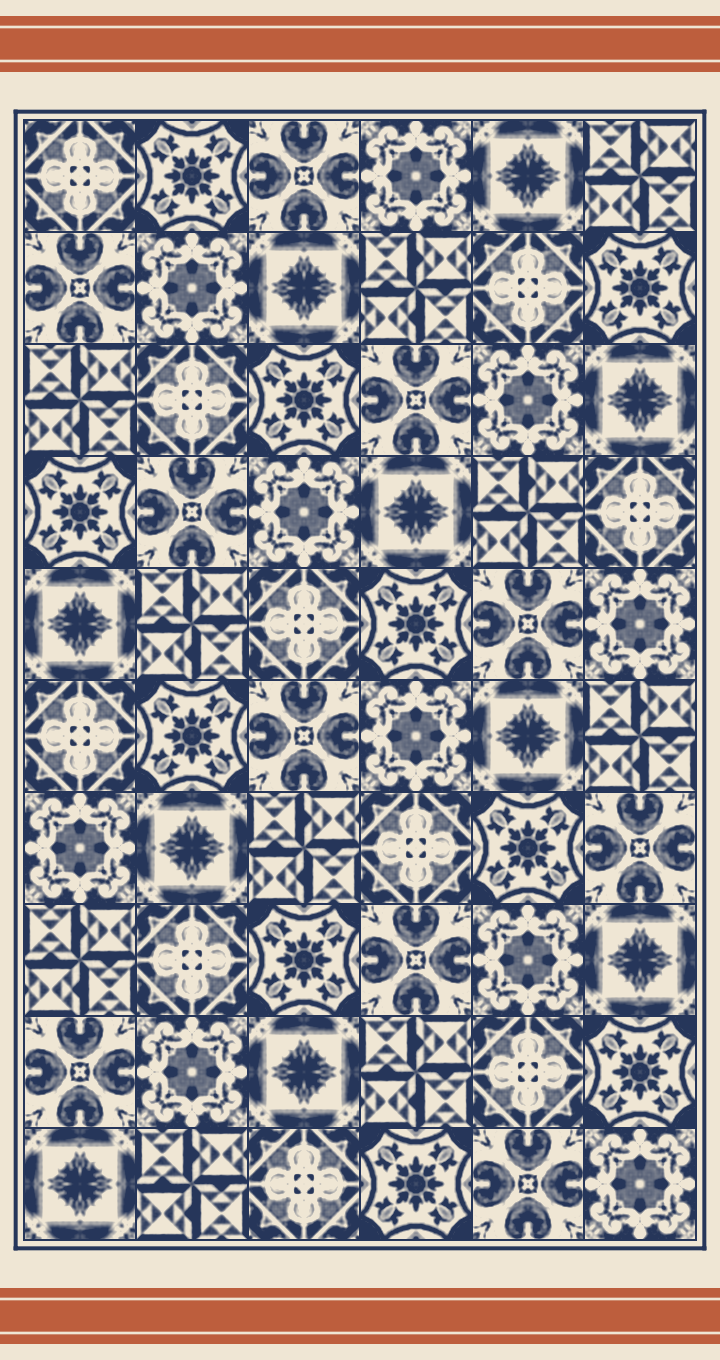
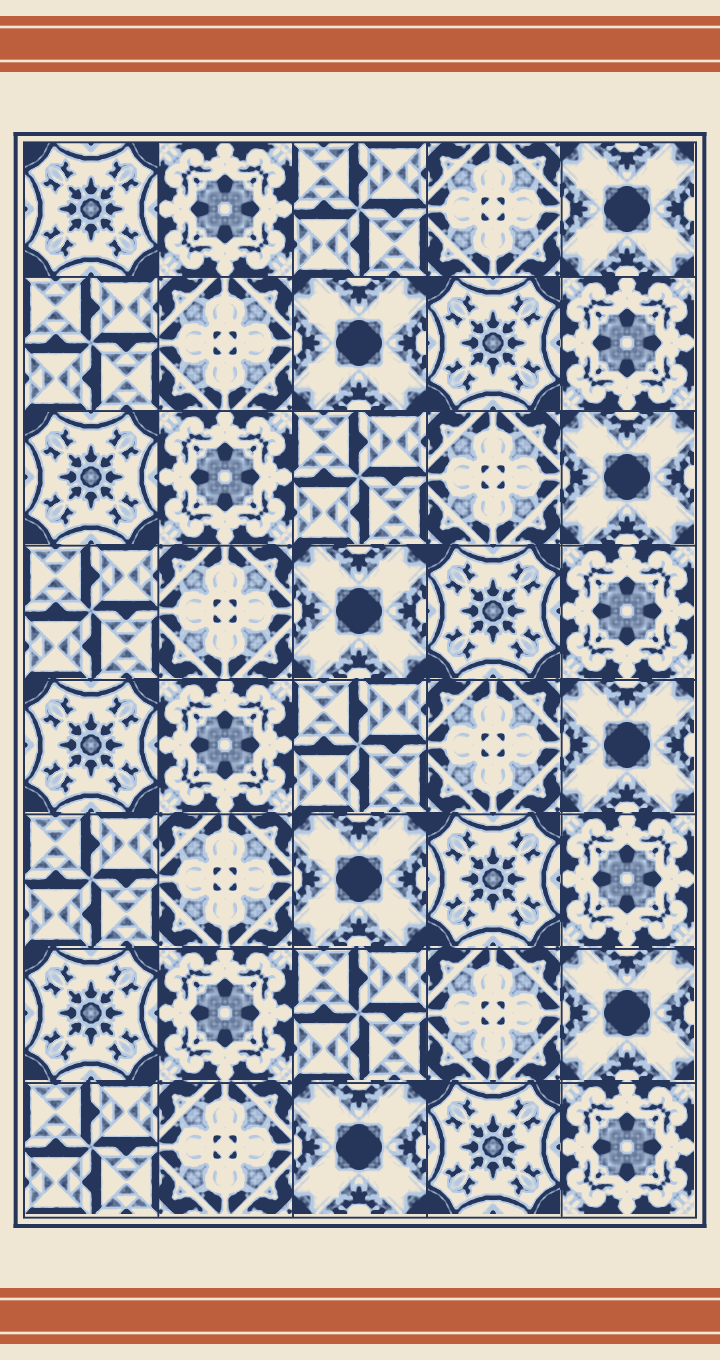
Geen merch meer: collectie heet Kleding en accessoires
Claude-Session: https://claude.ai/code/session_015XUCkmjhzv6ohesKJnYCin

diff --git a/tools/producten/echt_handdoek.py b/tools/producten/echt_handdoek.py
@@ -44,18 +44,19 @@ NAVY, CREME, TERRA = hexkl('#22324F'), hexkl('#F3ECDD'), hexkl('#C0603E')
 GAREN_NAVY = hexkl('#26365A')
 GAREN_CREME = hexkl('#EFE6D4')
 GAREN_TERRA = hexkl('#BD5E3D')
+GAREN_BLAUW = hexkl('#B3C8E3')      # baby blue, het derde garen voor de middentonen
 
 BREED, LANG = 90.0, 170.0          # cm
 TEGEL = 16.8                        # cm per tegel: 5 over de breedte, 8 over de lengte
 VELD = (3.0, 17.8, 87.0, 152.2)     # tegelveld u0, v0, u1, v1 in cm
 KADER_V = VELD[1] - 1.3             # dun navy kader rond het veld
-MOTIEVEN = [0, 1, 5, 6, 9, 2]       # tegels uit de stof die als jacquard goed lezen
+MOTIEVEN = [1, 6, 2, 0, 3]          # tegels uit de stof die als jacquard goed lezen
 SPIEGEL = {2: False}                # de molen (tegel 2) is alleen draaisymmetrisch
 
 
 # ---------- ontwerp ----------
 def motief(i, n=480):
-    """Tegel uit de echte stof als zachte twee-kleurenkaart (1 = crème, 0 = navy)."""
+    """Tegel uit de echte stof als zachte toonkaart. Geeft (X - drempel navy, X - drempel blauw) in eenheden van de spreiding."""
     t = np.asarray(Image.open(FABRIEK / f'tegel-0{i}.png').convert('RGB')).astype(np.float32) / 255
     L = MK.helderheid(t)
     L = cv2.GaussianBlur(cv2.resize(L, (n, n), interpolation=cv2.INTER_CUBIC), (0, 0), n / 130)
@@ -63,8 +64,8 @@ def motief(i, n=480):
     if SPIEGEL.get(i, True):
         acc += [np.fliplr(a) for a in acc]
     X = cv2.GaussianBlur(np.mean(acc, 0), (0, 0), n / 200)
-    th = np.percentile(X, 47)
-    return (X - th) / (X.std() + 1e-6)
+    X = (X - X.mean()) / (X.std() + 1e-6)
+    return np.dstack([X - np.percentile(X, 30), X - np.percentile(X, 58)])
 
 
 _MOT = {}
@@ -93,7 +94,7 @@ def ontwerp(ppc):
         if (i, tp) not in _MOT:
             _MOT[(i, tp)] = cv2.resize(motief(i), (tp, tp), interpolation=cv2.INTER_CUBIC)
     nk, nr = int(round((u1 - u0) / TEGEL)), int(round((v1 - v0) / TEGEL))
-    veld = np.ones((nr * tp, nk * tp), np.float32)
+    veld = np.ones((nr * tp, nk * tp, 2), np.float32)
     for r in range(nr):
         for c in range(nk):
             i = MOTIEVEN[(r * 2 + c * 1 + (r // 2)) % len(MOTIEVEN)]
@@ -104,11 +105,13 @@ def ontwerp(ppc):
         kl = cv2.resize(veld, (int(veld.shape[1] / cel), int(veld.shape[0] / cel)), interpolation=cv2.INTER_AREA)
         trap = cv2.resize(kl, (veld.shape[1], veld.shape[0]), interpolation=cv2.INTER_NEAREST)
         veld = cv2.GaussianBlur(trap, (0, 0), cel * 0.18) * 0.7 + veld * 0.3
-    # zachte rand tussen garens (scherpte past bij de schaal)
-    a = np.clip(veld * 2.2 * max(1.0, ppc / 12) + 0.5, 0, 1)
+    # drie garens: navy, baby blue en crème, met een zachte rand (scherpte past bij de schaal)
+    k = 2.2 * max(1.0, ppc / 12)
+    aN = np.clip(veld[..., 0] * k + 0.5, 0, 1)[..., None]
+    aB = np.clip(veld[..., 1] * k + 0.5, 0, 1)[..., None]
     x0, y0 = int(round(u0 * ppc)), int(round(v0 * ppc))
     sub = img[y0:y0 + veld.shape[0], x0:x0 + veld.shape[1]]
-    sub[:] = GAREN_NAVY * (1 - a[..., None]) + GAREN_CREME * a[..., None]
+    sub[:] = GAREN_NAVY * (1 - aN) + aN * (GAREN_BLAUW * (1 - aB) + GAREN_CREME * aB)
     # voegen tussen de tegels: dun navy
     voeg = np.zeros((H, W), np.float32)
     for k in range(nk + 1):
@@ -313,7 +316,7 @@ def foto2():
     vul = bril.copy(); ff = np.zeros((h + 2, w + 2), np.uint8); cv2.floodFill(vul, ff, (0, 0), 1); bril = bril | (1 - vul)
     bril = cv2.dilate(bril, np.ones((3, 3), np.uint8)).astype(np.float32)
     masker = cv2.GaussianBlur(binnen, (0, 0), 1.0) * (1 - cv2.GaussianBlur(bril, (0, 0), 1.0))
-    schoon = strepen_weg(f)
+    schoon = strepen_weg(f, 61)
     ontw, lm = ontwerp_met_label(s * 1.5)
     uit = breng_aan(f, masker, U, V, s * 1.5, ontw, schoon=schoon, verplaatsing=0.5, detail=0.6, waas=0.12)
     uit = uit[0:1950, 0:1560]

diff --git a/tools/producten/kleding.py b/tools/producten/kleding.py
@@ -1,4 +1,4 @@
-# Kleding en merch. Wordt uitgevoerd binnen producten.py (gebruikt de helpers en P daaruit).
+# Kleding en accessoires. Wordt uitgevoerd binnen producten.py (gebruikt de helpers en P daaruit).
 MATEN = ['S', 'M', 'L', 'XL']
 IL = json.load(open(ROOT / 'tools' / 'brand2' / 'illustraties.json'))
 
@@ -160,13 +160,13 @@ KLEDING = [
          voor=lambda: poncho(), achter=lambda: poncho(True), voor_bg=ZAND, achter_bg=BABY, alt='Zeeblauwe surfponcho met tegelrand', regel='Omkleden zonder gedoe'),
 ]
 for k in KLEDING:
-    P.append(dict(handle=k['handle'], titel=k['titel'], type=k['type'], collectie='Kleding en merch', prijs=k['prijs'], gram=k['gram'], tags=['kleding', 'merch'], maten=k.get('maten'),
+    P.append(dict(handle=k['handle'], titel=k['titel'], type=k['type'], collectie='Kleding en accessoires', prijs=k['prijs'], gram=k['gram'], tags=['kleding'], maten=k.get('maten'),
                   tekst=k['tekst'] + VERZENDING, seo_titel=f"{k['titel']} | Tide-Tode", seo_tekst=k['seo_tekst'],
                   beelden=[('pack', lambda k=k: (k['voor'](), '0 0 600 600', 1450, 0), k['voor_bg'], 'Voorkant', k['alt'] + ', voorkant'),
                            ('pack', lambda k=k: (k['achter'](), '0 0 600 600', 1450, 0), k['achter_bg'], 'Achterkant', k['alt'] + ', achterkant met print'),
                            ('sfeer', lambda k=k: (k['achter'](), '0 0 600 600', 1450, 0), k['regel'], k['alt'] + ' als sticker op een foto van de zee')]))
 
-MERCH = [
+ACCESSOIRES = [
     dict(handle='pet-navy', titel='Pet navy', type='Pet', prijs='30.00', gram=90,
          tekst='<p>Navy pet van katoen met ons board-icoon geborduurd op de voorkant. Verstelbaar aan de achterkant, één maat.</p>',
          seo_tekst='Navy katoenen pet met geborduurd Tide-Tode icoon. Verstelbaar, één maat.',
@@ -184,8 +184,8 @@ MERCH = [
          seo_tekst='Canvas tas met busjesprint voor handdoek, wetsuit en lunch. 38 bij 42 cm.',
          svg=lambda: (tote(), '0 0 600 600', 1300, 0), achter=ROSE, label='Canvas', alt='Canvas tas met het busje en OP WEG NAAR ZEE', regel='Alles mee naar het strand'),
 ]
-for k in MERCH:
-    P.append(dict(handle=k['handle'], titel=k['titel'], type=k['type'], collectie='Kleding en merch', prijs=k['prijs'], gram=k['gram'], tags=['merch'],
+for k in ACCESSOIRES:
+    P.append(dict(handle=k['handle'], titel=k['titel'], type=k['type'], collectie='Kleding en accessoires', prijs=k['prijs'], gram=k['gram'], tags=['accessoires'],
                   tekst=k['tekst'] + VERZENDING, seo_titel=f"{k['titel']} | Tide-Tode", seo_tekst=k['seo_tekst'],
                   beelden=[('pack', k['svg'], k['achter'], k['label'], k['alt']), ('sfeer', k['svg'], k['regel'], k['alt'] + ' als sticker op een foto van de zee')]))
 

diff --git a/tools/brand/maak_secties.py b/tools/brand/maak_secties.py
@@ -1229,7 +1229,7 @@ schrijf('tt-collectie', """
         {"type": "link", "settings": {"label": "Alles", "handle": "all"}},
         {"type": "link", "settings": {"label": "Draagtassen", "handle": "draagtassen"}},
         {"type": "link", "settings": {"label": "Surfgear", "handle": "surfgear"}},
-        {"type": "link", "settings": {"label": "Kleding en merch", "handle": "kleding-en-merch"}}]}]})
+        {"type": "link", "settings": {"label": "Kleding en accessoires", "handle": "kleding-en-accessoires"}}]}]})
 
 # ---------- ALLE COLLECTIES ----------
 schrijf('tt-collecties', """
@@ -1266,7 +1266,7 @@ schrijf('tt-collecties', """
     "presets": [{"name": "TT: alle collecties", "blocks": [
         {"type": "collectie", "settings": {"label": "Draagtassen", "handle": "draagtassen", "kleur": "baby", "ill": "draagtas"}},
         {"type": "collectie", "settings": {"label": "Surfgear", "handle": "surfgear", "kleur": "rose", "ill": "golf"}},
-        {"type": "collectie", "settings": {"label": "Kleding en merch", "handle": "kleding-en-merch", "kleur": "zand", "ill": "busje"}}]}]})
+        {"type": "collectie", "settings": {"label": "Kleding en accessoires", "handle": "kleding-en-accessoires", "kleur": "zand", "ill": "busje"}}]}]})
 
 # ---------- DUURZAAMHEID: wat we nu al doen, in een paar punten ----------
 # Alleen keuzes die echt zo zijn. Geen keurmerken, percentages of CO2-cijfers.
@@ -1396,8 +1396,8 @@ schrijf('tt-meer', """
         {"type": "text", "id": "label", "label": "Klein label boven de kop", "default": "Kleding en gear"},
         kop("Meer dan|een *tas*"),
         {"type": "textarea", "id": "text", "label": "Tekst", "default": "Zware shirts met een verhaal op de rug, een hoodie voor na het surfen en kleine dingen die je elke sessie gebruikt."},
-        {"type": "text", "id": "btn1_label", "label": "Knop", "default": "Kleding en merch"},
-        {"type": "text", "id": "btn1_link", "label": "Knop (adres)", "default": "/collections/kleding-en-merch"},
+        {"type": "text", "id": "btn1_label", "label": "Knop", "default": "Kleding en accessoires"},
+        {"type": "text", "id": "btn1_link", "label": "Knop (adres)", "default": "/collections/kleding-en-accessoires"},
         {"type": "text", "id": "btn2_label", "label": "Tweede link", "default": "Surfgear"},
         {"type": "text", "id": "btn2_link", "label": "Tweede link (adres)", "default": "/collections/surfgear"},
     ],

diff --git a/tools/tas/sfeer_meet.py b/tools/tas/sfeer_meet.py
@@ -231,11 +231,39 @@ def meet(naam, hint, check=None):
     res = dict(c=c.tolist(), a=a.tolist(), t_neus=None if t_neus is None else float(t_neus),
                t_staart=None if t_staart is None else float(t_staart), t_balans=float(tb),
                breedte=breedte, midden=mid.tolist(), tt=tt, lo=lo_g, hi=hi_g)
+    # zichtbaar board = gladde omtrek min occluders (pixels binnen de omtrek die GrabCut geen board vond,
+    # alleen als ze in een hint-zone 'occ' liggen of groot genoeg zijn)
+    omtrek = omtrek_masker(img.shape[:2], res)
+    occ = (omtrek > 0) & (fg == 0)
+    occ = cv2.morphologyEx(occ.astype(np.uint8), cv2.MORPH_OPEN, np.ones((5, 5), np.uint8))
+    if hint.get('occ_zones'):
+        zone = np.zeros_like(occ)
+        for poly in hint['occ_zones']:
+            cv2.fillPoly(zone, [np.array(poly, np.int32)], 1)
+        occ = occ * zone
+    else:
+        occ[:] = 0
+    zicht = ((omtrek > 0) & (occ == 0)).astype(np.uint8)
     MASK.mkdir(exist_ok=True)
-    Image.fromarray(fg * 255).save(MASK / (pathlib.Path(naam).stem + '.png'))
+    Image.fromarray(zicht * 255).save(MASK / (pathlib.Path(naam).stem + '.png'))
+    np.savez_compressed(MASK / (pathlib.Path(naam).stem + '.npz'), c=c, a=a, tt=tt, lo=lo_g, hi=hi_g, t_balans=tb,
+                        t_neus=np.nan if t_neus is None else t_neus, t_staart=np.nan if t_staart is None else t_staart)
+    fg = zicht
     if check:
         controle(img, fg, res, check / f'meet-{pathlib.Path(naam).stem}.jpg', hint)
     return res, fg
+
+
+def omtrek_masker(shape, r, sub=4):
+    """Gevulde gladde omtrek (anti-aliased niet nodig: 1 px nauwkeurig) uit het profiel."""
+    c, a = np.array(r['c']), np.array(r['a']); n = np.array([-a[1], a[0]])
+    tt, lo, hi = r['tt'], r['lo'], r['hi']
+    links = c[None] + a[None] * tt[:, None] + n[None] * lo[:, None]
+    rechts = c[None] + a[None] * tt[:, None] + n[None] * hi[:, None]
+    pts = np.concatenate([links, rechts[::-1]])
+    m = np.zeros(shape, np.uint8)
+    cv2.fillPoly(m, [np.round(pts * sub).astype(np.int32)], 1, lineType=cv2.LINE_8, shift=2)
+    return m
 
 
 def controle(img, fg, r, pad, hint):

diff --git a/tools/brand2/brandbook.py b/tools/brand2/brandbook.py
@@ -512,7 +512,7 @@ svg.vol { position: absolute; inset: 0; width: 100%; height: 100%; display: bloc
     <div style="background-image:url({productfoto(PB / 'fabriek' / 'lifestyle-knuffel.jpg', 800)})"></div>
   </div>
 </div></section>''')
-    # 3g kleding en merch: echte productfoto's
+    # 3g kleding en accessoires: echte productfoto's
     def raster(items):
         return ''.join(f'<figure><div style="background-image:url({productfoto(PB / "beelden" / f"{f}.jpg", 520)})"></div><figcaption>{t}</figcaption></figure>'
                        for f, t in items if (PB / 'beelden' / f'{f}.jpg').exists())
@@ -524,13 +524,13 @@ svg.vol { position: absolute; inset: 0; width: 100%; height: 100%; display: bloc
   <p>Zware shirts van biologisch katoen. Op de rug een verhaal: de lijn naar zee langs onze surfspots, de getijden van Scheveningen. In de nek altijd ons eigen label.</p>
   <div class="negen">{raster(kleding)}</div>
 </div></section>''')
-    merch = [('karabijnhaak-messing-1', 'KARABIJNHAAK'), ('karabijnhaak-zwart-1', 'MAT ZWART'), ('pet-navy-1', 'PET'),
+    accessoires = [('karabijnhaak-messing-1', 'KARABIJNHAAK'), ('karabijnhaak-zwart-1', 'MAT ZWART'), ('pet-navy-1', 'PET'),
              ('bucket-hat-tegel-1', 'BUCKET HAT'), ('canvas-tas-1', 'CANVAS TAS'), ('stickerset-1', 'STICKERVEL'),
              ('surfwax-koud-1', 'SURF WAX'), ('strandhanddoek-tegel-1', 'HANDDOEK'), ('waxkam-1', 'WAXKAM')]
-    paginas.append(f'''<section class="pagina" aria-label="Merch en gear"><div class="fotop">
-  <h2>MERCH EN GEAR</h2>
+    paginas.append(f'''<section class="pagina" aria-label="Accessoires en gear"><div class="fotop">
+  <h2>ACCESSOIRES EN GEAR</h2>
   <p>Kleine dingen met dezelfde zorg. De karabijnhaak heeft een lus van onze tasband met het geweven logo, de pet een geborduurd board.</p>
-  <div class="negen">{raster(merch)}</div>
+  <div class="negen">{raster(accessoires)}</div>
 </div></section>''')
     # 4 kleur en letter
     kleuren = [('Navy', NAVY, '#F3ECDD'), ('Crème', CREME, NAVY), ('Baby', BABY, NAVY), ('Rose', ROSE, NAVY), ('Zand', ZAND, NAVY)]

diff --git a/tools/producten/echt_wax.py b/tools/producten/echt_wax.py
@@ -120,7 +120,7 @@ def druk(img, a, quad, wit, blur=0.7, structuur=0.5, rand=0.8, licht=None, korre
     M = cv2.getPerspectiveTransform(np.float32([[0, 0], [aw, 0], [aw, ah], [0, ah]]), quad)
     laag = cv2.warpPerspective(a, M, (w, h), flags=cv2.INTER_LINEAR, borderMode=cv2.BORDER_CONSTANT, borderValue=(0, 0, 0, 0))
     Lb = L(img) if licht is None else licht
-    lichtf = np.clip(cv2.GaussianBlur(Lb, (0, 0), 1.0) / wit, 0, 1.08)[..., None]
+    lichtf = np.clip(cv2.GaussianBlur(Lb, (0, 0), 1.5) / wit, 0, 1.08)[..., None]
     fijn = (Lb - cv2.GaussianBlur(Lb, (0, 0), 1.6))[..., None]
     kleur = laag[..., :3] * lichtf + fijn * structuur
     if blur:
@@ -194,11 +194,11 @@ def bewaar(img, naam, x0, y0, b, rechts=0):
 # ---------- -1: stapel van drie blokken ----------
 # banden (voorkant, lb rb ro lo) en de zichtbare uiteinden van de blokken, gemeten op wax2-stapel-1.jpg (2400 x 3598)
 STAPEL_BANDEN = [
-    [(1181, 2398), (2072, 2398), (2073, 2705), (1181, 2705)],
+    [(1181, 2394), (2072, 2394), (2073, 2705), (1181, 2705)],
     [(1200, 2706), (2095, 2706), (2096, 2998), (1200, 2998)],
     [(1178, 2999), (2064, 2999), (2071, 3292), (1179, 3292)],
 ]
-STAPEL_TEKST = [(1240, 2318, 1990, 2410), (1330, 2505, 1910, 2585), (1400, 2748, 1905, 2820), (1330, 3140, 1910, 3215)]
+STAPEL_TEKST = [(1240, 2318, 1990, 2432), (1170, 3275, 1200, 3300), (1330, 2505, 1910, 2585), (1400, 2748, 1905, 2820), (1330, 3140, 1910, 3215)]
 STAPEL_BLOKKEN = [((1085, 2320, 2200, 2706), (1183, 2072)), ((1085, 2700, 2210, 3000), (1202, 2095)), ((1085, 2995, 2200, 3300), (1180, 2068))]
 
 
@@ -232,7 +232,7 @@ def stapel(soort):
         m[y0:y1, br - 3:x1] = 1
         m = cv2.dilate((m & vol), np.ones((3, 3), np.uint8)).astype(np.float32)
         m = cv2.GaussianBlur(m, (0, 0), 1.6)
-        img = wax_kleur(img, m, d['kleur'], glad=5, vlak=6 if y0 > 2900 else 0, laag=0.62)
+        img = wax_kleur(img, m, d['kleur'], glad=15 if y0 > 2900 else 5, laag=0.62)
     # 2. oude tekst van de wikkels weg
     img = poets(img, STAPEL_TEKST)
     # 3. onze wikkel erop: crème papier met druk

diff --git a/tools/producten/producten.py b/tools/producten/producten.py
@@ -504,8 +504,8 @@ with open(DOCS / 'producten.csv', 'w', newline='', encoding='utf-8') as fh:
 
 # ---------- overzicht ----------
 regels = ['# Assortiment Tide-Tode', '', f'{len(P)} producten in 3 collecties. Importeren: Shopify admin, Producten, Importeren, `producten.csv`.', '',
-          'De beelden zijn getekend in de merkstijl en worden bij de import van GitHub opgehaald. Vervang ze door echte foto\'s zodra die er zijn.', '']
-for col in ('Draagtassen', 'Surfgear', 'Kleding en merch'):
+          'De productfoto\'s worden bij de import van GitHub opgehaald.', '']
+for col in ('Draagtassen', 'Surfgear', 'Kleding en accessoires'):
     regels += [f'## {col}', '', '| Product | Prijs | Handle |', '|---|---|---|']
     regels += [f"| {p['titel']} | € {p['prijs'].replace('.', ',')} | `{p['handle']}` |" for p in P if p['collectie'] == col]
     regels.append('')
@@ -514,7 +514,7 @@ regels += ['## Collecties aanmaken', '',
            '| Collectie | Voorwaarde | Handle |', '|---|---|---|',
            '| Draagtassen | Producttag is gelijk aan `Draagtassen` | `draagtassen` |',
            '| Surfgear | Producttag is gelijk aan `Surfgear` | `surfgear` |',
-           '| Kleding en merch | Producttag is gelijk aan `Kleding en merch` | `kleding-en-merch` |', '',
+           '| Kleding en accessoires | Producttag is gelijk aan `Kleding en accessoires` | `kleding-en-accessoires` |', '',
            '## Nog controleren met Veerle', '',
            '- Prijzen: alle draagtassen € 40 (uit de intake), de rest zijn ronde voorstelprijzen.',
            '- Materialen en gewichten van de kleding, de UPF van het UV-shirt, maat handdoek en canvas tas.',

diff --git a/tools/producten/echt_meer.py b/tools/producten/echt_meer.py
@@ -146,6 +146,21 @@ def pet():
     E.bewaar(p, 'pet-navy-2', vul=1.0, uitsnede=staand(p, 1300, 2050, 2600))
 
 
+# ---------- bucket hat ----------
+def bucket():
+    """Gedragen tegen een klimopmuur: de (grijsgroene) bucket hat wordt crème met het kleine navy board geborduurd."""
+    b = foto('buckethat-gedragen-1.jpg')
+    m = grabcut(b, (700, 560, 2000, 1520), voor=[[(800, 800), (1600, 760), (1650, 1080), (800, 1150)]],
+                achter=[[(1000, 1250), (1500, 1220), (1550, 1700), (1000, 1700)], [(0, 0), (2400, 0), (2400, 560), (0, 560)]])
+    m = vul_gaten(cv2.morphologyEx(m.astype(np.uint8), cv2.MORPH_OPEN, np.ones((7, 7), np.uint8)))
+    m = component(m, (1200, 950)).astype(np.uint8)
+    L = MK.helderheid(b)
+    ref = float(np.percentile(L[m > 0], 70))
+    b, _ = kleur_rand(b, m, '#E9DFCB', gamma=0.9, ref=ref, rand=4)
+    b = borduur_op(b, L, ref, E.art('icoon-navy.png', NAVY), 1235, 950, 74, draai=-2)
+    E.bewaar(b, 'bucket-hat-tegel-2', vul=1.0, uitsnede=(340, 250, 2260, 2650))
+
+
 def borduur_op(img, L_bron, ref, a, cx, cy, breedte, draai=0, sterkte=0.8):
     """E.borduur, en daarna het licht van de stof (uit de bronfoto) ook over het borduursel."""
     uit = E.borduur(img, a, cx, cy, breedte, draai)

diff --git a/tools/producten/echt.py b/tools/producten/echt.py
@@ -235,7 +235,7 @@ def hoodie():
     bewaar(h, 'hoodie-busje-3', vul=1.0, uitsnede=(800, 380, 1140, 805))      # detail van de borstprint
 
 
-# ---------- merch ----------
+# ---------- accessoires ----------
 def pet():
     p = foto('pet-navy-1.jpg')
     # de klepsticker van de stockpet vervangen door die van ons, in dezelfde stand (perspectief) op de klep

diff --git a/docs/opdracht-checklist.md b/docs/opdracht-checklist.md
@@ -13,7 +13,7 @@ Bijgewerkt op woensdag 7 oktober 2026.
 | Eigen lay-out, geen standaard themalook | ✅ | Eigen secties in de Tide-Tode huisstijl (merkboek), eigen letters, iconen, stickers en tekeningen |
 | Geen standaardteksten, ook knoppen en footer | ✅ | Alle teksten zelf geschreven. 🛠 Controleer na publiceren de winkelwagen en het afrekenen: die teksten pas je aan via Online winkel > Thema's > ... > Standaardthemacontent bewerken |
 | Minimaal 20 eigen producten | ✅ | 27 producten in `docs/producten/producten.csv`. 🛠 Importeren via Producten > Importeren. 📝 Maak daarna screenshots van de gepubliceerde producten |
-| Minstens drie collecties | ✅ | Draagtassen, Surfgear, Kleding en merch. 🛠 Aanmaken als automatische collecties op tag, zie `docs/producten/overzicht.md` |
+| Minstens drie collecties | ✅ | Draagtassen, Surfgear, Kleding en accessoires. 🛠 Aanmaken als automatische collecties op tag, zie `docs/producten/overzicht.md` |
 | Privacybeleid, algemene voorwaarden, veelgestelde vragen | ✅ | Teksten in `docs/juridisch/`, FAQ-pagina bestaat al. 🛠 Plakken in Instellingen > Beleid, zie `docs/juridisch/README.md` |
 | Herroepingsrecht en modelformulier | ✅ | `docs/juridisch/herroepingsrecht.html`. 🛠 Pagina "Herroepingsrecht" aanmaken met template `page.juridisch` |
 | Over ons, retourbeleid en contact | ✅ | Over ons (`page.over-ons`), retourbeleid in `docs/juridisch/`, contactpagina (`page.contact`) |
@@ -39,7 +39,7 @@ Bijgewerkt op woensdag 7 oktober 2026.
 - Shop
   - Draagtassen → `/collections/draagtassen`
   - Surfgear → `/collections/surfgear`
-  - Kleding en merch → `/collections/kleding-en-merch`
+  - Kleding en accessoires → `/collections/kleding-en-accessoires`
   - Alles → `/collections/all`
 - Maatwijzer → `/pages/maatwijzer`
 - Ons verhaal → `/pages/over-ons`
@@ -82,7 +82,7 @@ Het thema laat de nullen achter de komma al weg, dus je ziet €40 en €5.
 | Home (Instellingen > Voorkeuren) | Tide-Tode: draagtassen voor je surfboard | Draagtas voor je surfboard. Board erin, tas over je schouder en je handen zijn vrij. Voor softtops en hardboards. |
 | Draagtassen | Surfboard draagtassen in negen prints | Draagtassen voor je surfboard in tegel, golfjes, ruit en meer. Eén maat voor softtops en hardboards. |
 | Surfgear | Surfwax, waxkam en karabijnhaken | Surfwax voor koud, koel en warm water, een waxkam, karabijnhaken en stickers van Tide-Tode. |
-| Kleding en merch | Surfkleding: T-shirts, longsleeves en hoodies | Surfkleding met eigen prints: T-shirts, longsleeves, een UV-shirt, hoodie, poncho en meer. |
+| Kleding en accessoires | Surfkleding: T-shirts, longsleeves en hoodies | Surfkleding met eigen prints: T-shirts, longsleeves, een UV-shirt, hoodie, poncho en meer. |
 | Over ons | Over Tide-Tode: hoe de draagtas begon | Bedacht op surftrips in Australië en Midden-Amerika. Lees waarom Veerle de draagtas voor surfboards maakte. |
 | Duurzaamheid | Duurzaamheid bij Tide-Tode | Een tas die jaren meegaat, reparatie in plaats van een nieuwe, verpakking zonder plastic en drie dingen mee van het strand. |
 | Veelgestelde vragen | Veelgestelde vragen over de draagtas | Welke boards passen, kan hij mee in het vliegtuig, verzenden en retourneren. Alle antwoorden op een rij. |

diff --git a/docs/producten/overzicht.md b/docs/producten/overzicht.md
@@ -2,7 +2,7 @@
 
 27 producten in 3 collecties. Importeren: Shopify admin, Producten, Importeren, `producten.csv`.
 
-De beelden zijn getekend in de merkstijl en worden bij de import van GitHub opgehaald. Vervang ze door echte foto's zodra die er zijn.
+De productfoto's worden bij de import van GitHub opgehaald.
 
 ## Draagtassen
 
@@ -30,7 +30,7 @@ De beelden zijn getekend in de merkstijl en worden bij de import van GitHub opge
 | Karabijnhaak zwart | € 8,00 | `karabijnhaak-zwart` |
 | Stickerset | € 6,00 | `stickerset` |
 
-## Kleding en merch
+## Kleding en accessoires
 
 | Product | Prijs | Handle |
 |---|---|---|
@@ -54,7 +54,7 @@ Maak in Shopify drie automatische collecties (Producten, Collecties, Collectie m
 |---|---|---|
 | Draagtassen | Producttag is gelijk aan `Draagtassen` | `draagtassen` |
 | Surfgear | Producttag is gelijk aan `Surfgear` | `surfgear` |
-| Kleding en merch | Producttag is gelijk aan `Kleding en merch` | `kleding-en-merch` |
+| Kleding en accessoires | Producttag is gelijk aan `Kleding en accessoires` | `kleding-en-accessoires` |
 
 ## Nog controleren met Veerle
 
